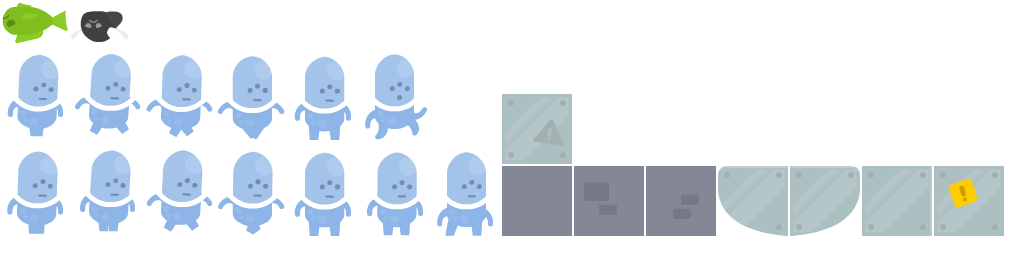
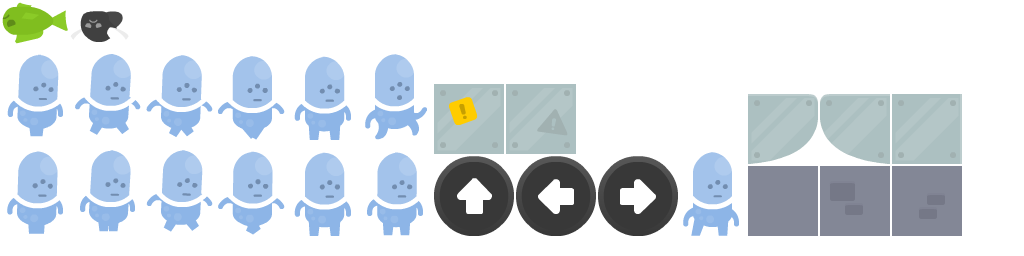
Started creating UI

Changed region(s): [[0.4062, 0.3125, 1.0, 0.9375]]

diff --git a/core/src/com/mygdx/ssj/UI.java b/core/src/com/mygdx/ssj/UI.java
@@ -1,0 +1,82 @@
+package com.mygdx.ssj;
+
+import com.badlogic.gdx.Gdx;
+import com.badlogic.gdx.graphics.OrthographicCamera;
+import com.badlogic.gdx.graphics.g2d.BitmapFont;
+import com.badlogic.gdx.graphics.g2d.TextureAtlas;
+import com.badlogic.gdx.graphics.g2d.freetype.FreeTypeFontGenerator;
+import com.badlogic.gdx.scenes.scene2d.Stage;
+import com.badlogic.gdx.scenes.scene2d.ui.Button;
+import com.badlogic.gdx.scenes.scene2d.ui.Label;
+import com.badlogic.gdx.scenes.scene2d.ui.Table;
+import com.badlogic.gdx.scenes.scene2d.utils.Drawable;
+import com.badlogic.gdx.utils.StringBuilder
+
+/**
+ * Created by heschlie on 6/23/2014. Copyright under Iridium Flare Games LLC.
+ */
+public class UI {
+    private Player player;
+    private Level level;
+    private TextureAtlas atlas;
+    private OrthographicCamera camera;
+    private Stage stage;
+    private Table table;
+    private Table buttonTable;
+    private Button leftButton;
+    private Button rightButton;
+    private Button jumpButton;
+    private Label score;
+    private FreeTypeFontGenerator generator;
+    private FreeTypeFontGenerator.FreeTypeFontParameter parameter;
+    private BitmapFont font;
+    private StringBuilder builder;
+
+    public UI(Player player, Level level, TextureAtlas atlas) {
+        this.player = player;
+        this.level = level;
+        this.atlas = atlas;
+        builder = new StringBuilder();
+
+        camera = new OrthographicCamera(Gdx.graphics.getWidth(), Gdx.graphics.getHeight());
+        stage = new Stage();
+        table = new Table();
+        buttonTable = new Table();
+
+        leftButton = new Button((Drawable) atlas.findRegion("leftButton"));
+        rightButton = new Button((Drawable) atlas.findRegion("rightButton"));
+        jumpButton = new Button((Drawable) atlas.findRegion("jumpButton"));
+
+        generator = new FreeTypeFontGenerator(Gdx.files.internal("kenvector_future.ttf"));
+        parameter.size = 16;
+        font = generator.generateFont(parameter);
+        init();
+    }
+
+    private void init() {
+        stage.addActor(table);
+        table.setFillParent(true);
+        buttonTable.add(leftButton);
+        buttonTable.add(rightButton);
+
+        // Setup table
+        table.add();
+        table.add();
+        table.add(score);
+        table.row();
+        table.add();
+        table.add();
+        table.add();
+        table.row();
+        table.add(buttonTable);
+        table.add();
+        table.add();
+
+    }
+
+    public void update(float delta) {
+        builder.setLength(0);
+        score.setText(builder.append(player.score));
+        stage.act();
+    }
+}

diff --git a/core/src/com/mygdx/ssj/MainGame.java b/core/src/com/mygdx/ssj/MainGame.java
@@ -14,8 +14,8 @@ public class MainGame extends Game {
     private Level level;
     public TextureAtlas atlas;
     public OrthographicCamera camera;
-    public float screenWidth = 15f;
-    public float screenHeight = screenWidth * 1.77f;
+    public static final float screenWidth = 15f;
+    public static final float screenHeight = screenWidth * 1.77f;
 
     @Override
     public void create() {

diff --git a/core/src/com/mygdx/ssj/Level.java b/core/src/com/mygdx/ssj/Level.java
@@ -14,8 +14,6 @@ import com.badlogic.gdx.graphics.g2d.TextureRegion;
 import com.badlogic.gdx.graphics.glutils.ShapeRenderer;
 import com.badlogic.gdx.utils.Array;
 
-import java.security.Key;
-
 /**
  * Created by heschlie on 6/23/2014. Copyright under Iridium Flare Games LLC.
  */

diff --git a/core/src/com/mygdx/ssj/Player.java b/core/src/com/mygdx/ssj/Player.java
@@ -37,6 +37,7 @@ public class Player extends Sprite {
     public boolean goingUp = false;
     public movement movestate;
     private float time = 0f;
+    public int score;
 
     // Feet!
     public Array<Rectangle> feet = new Array<Rectangle>(2);
